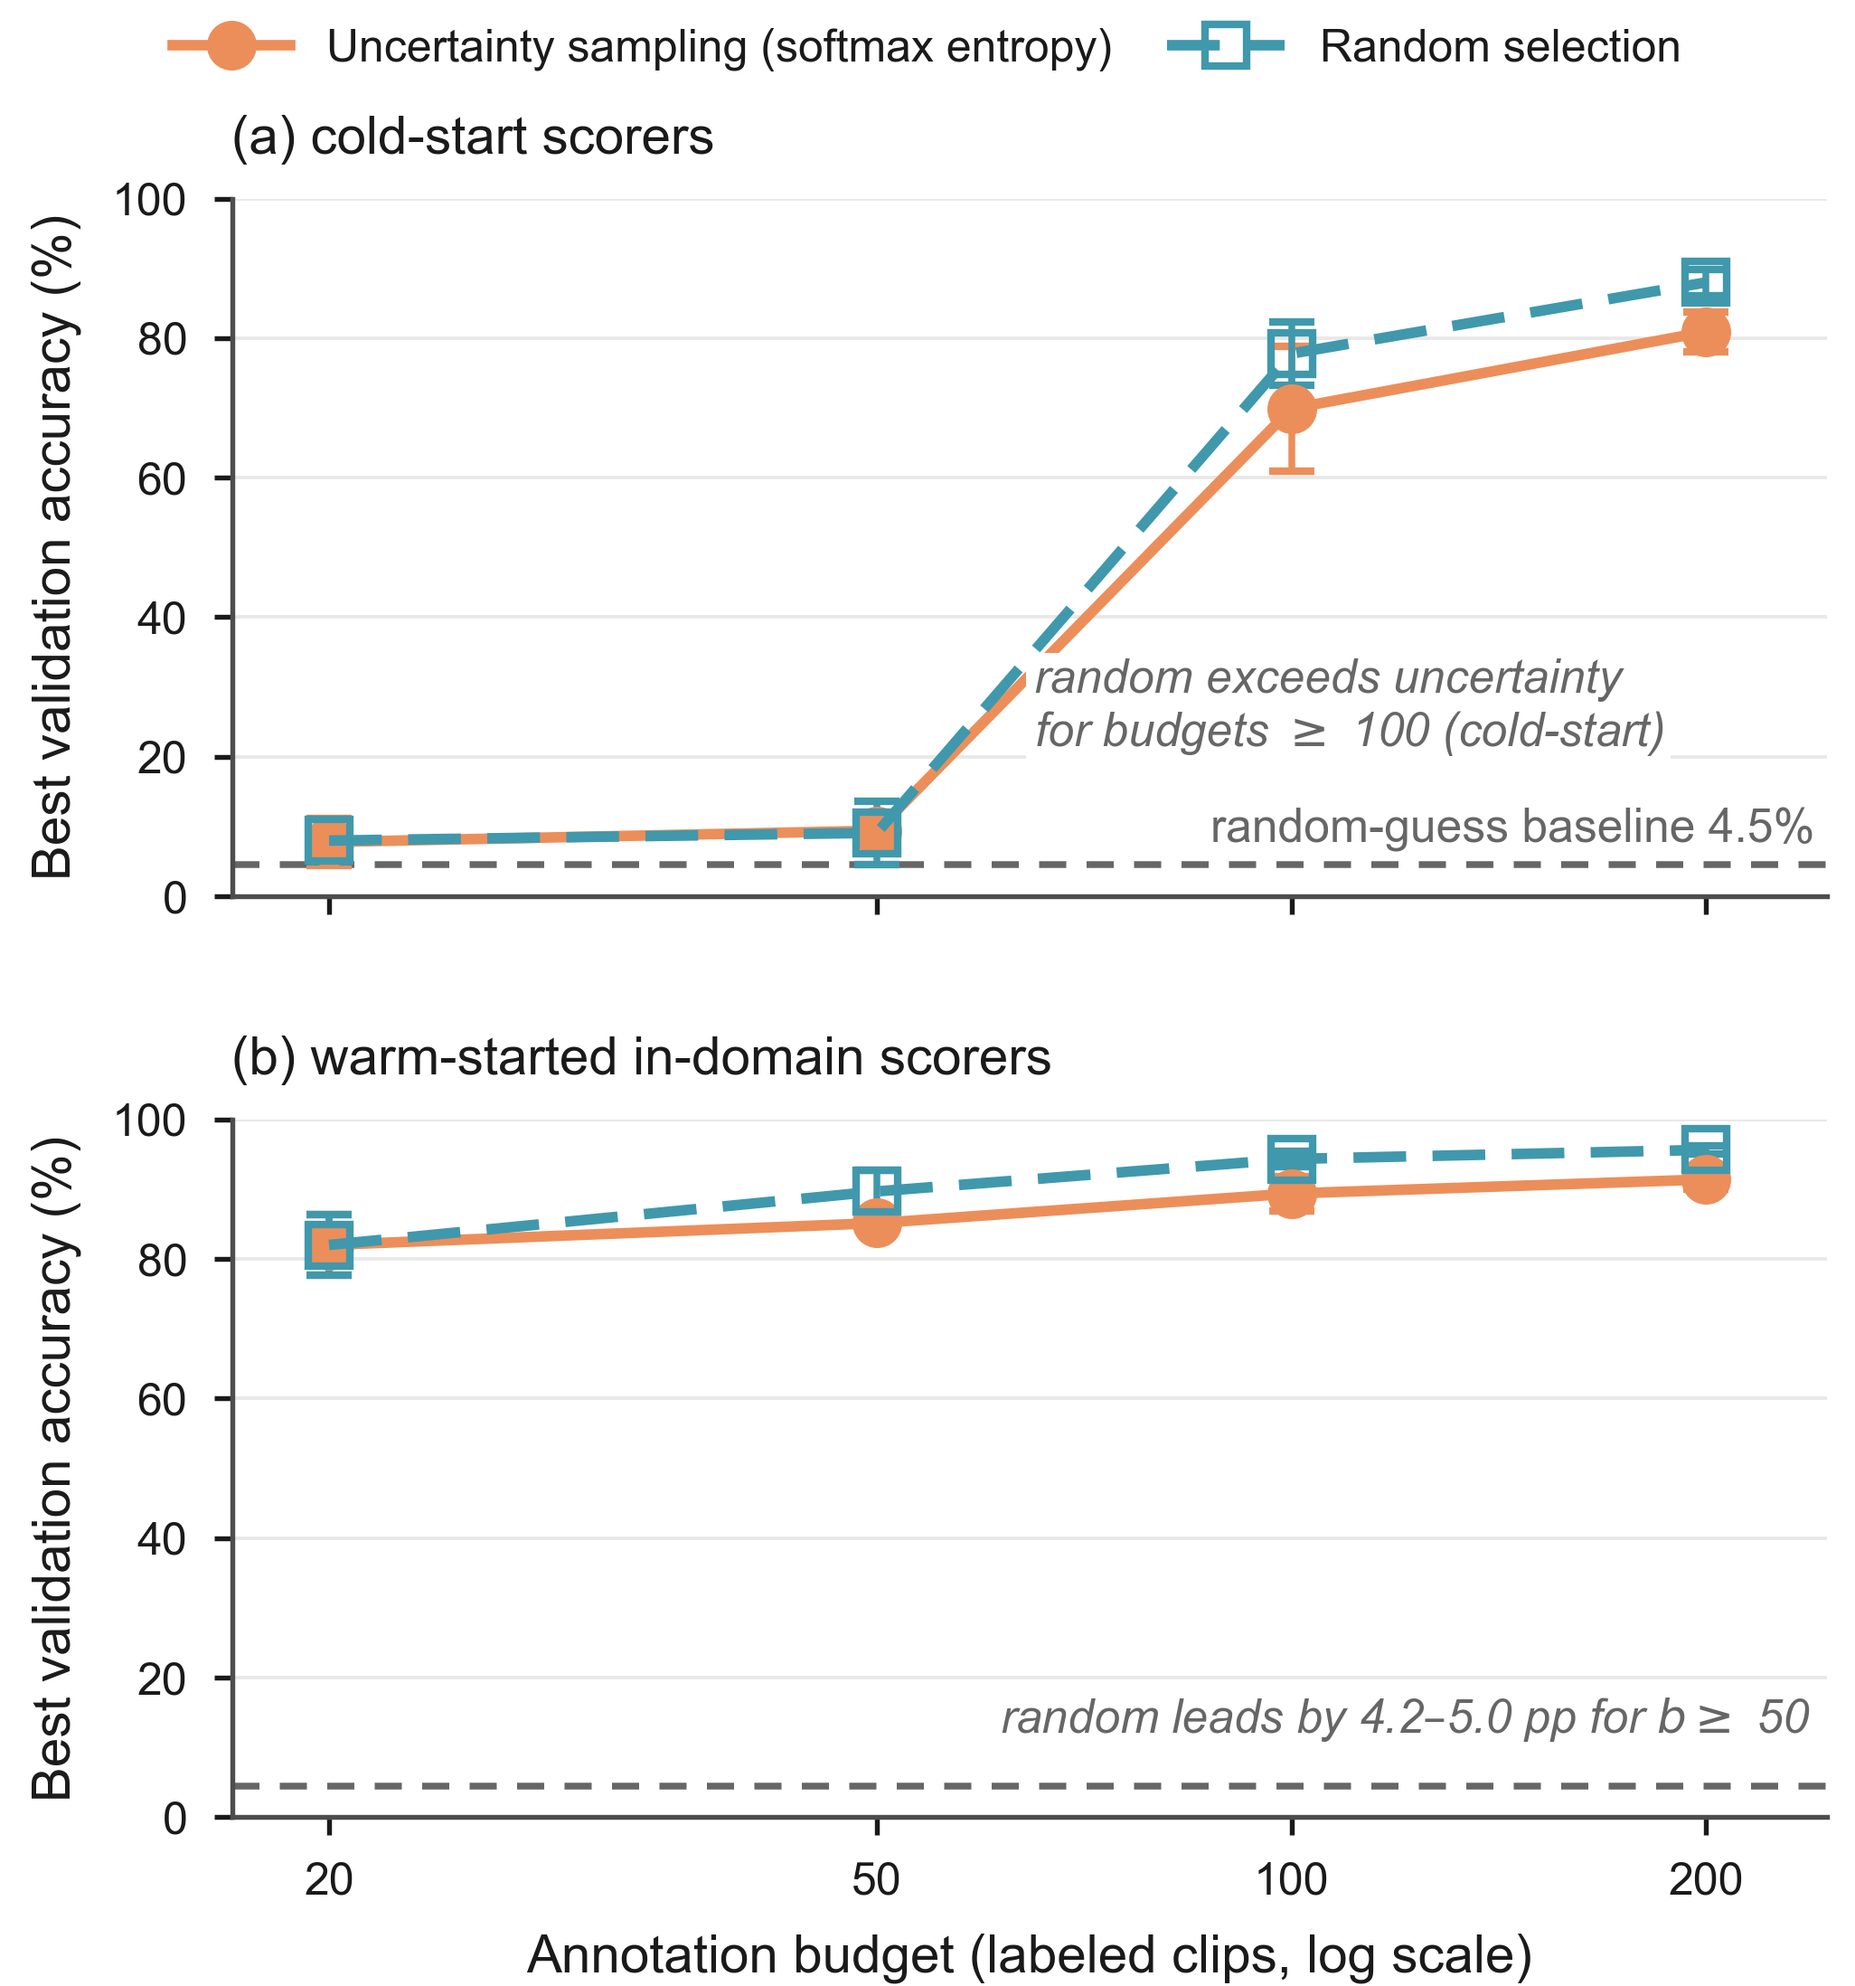
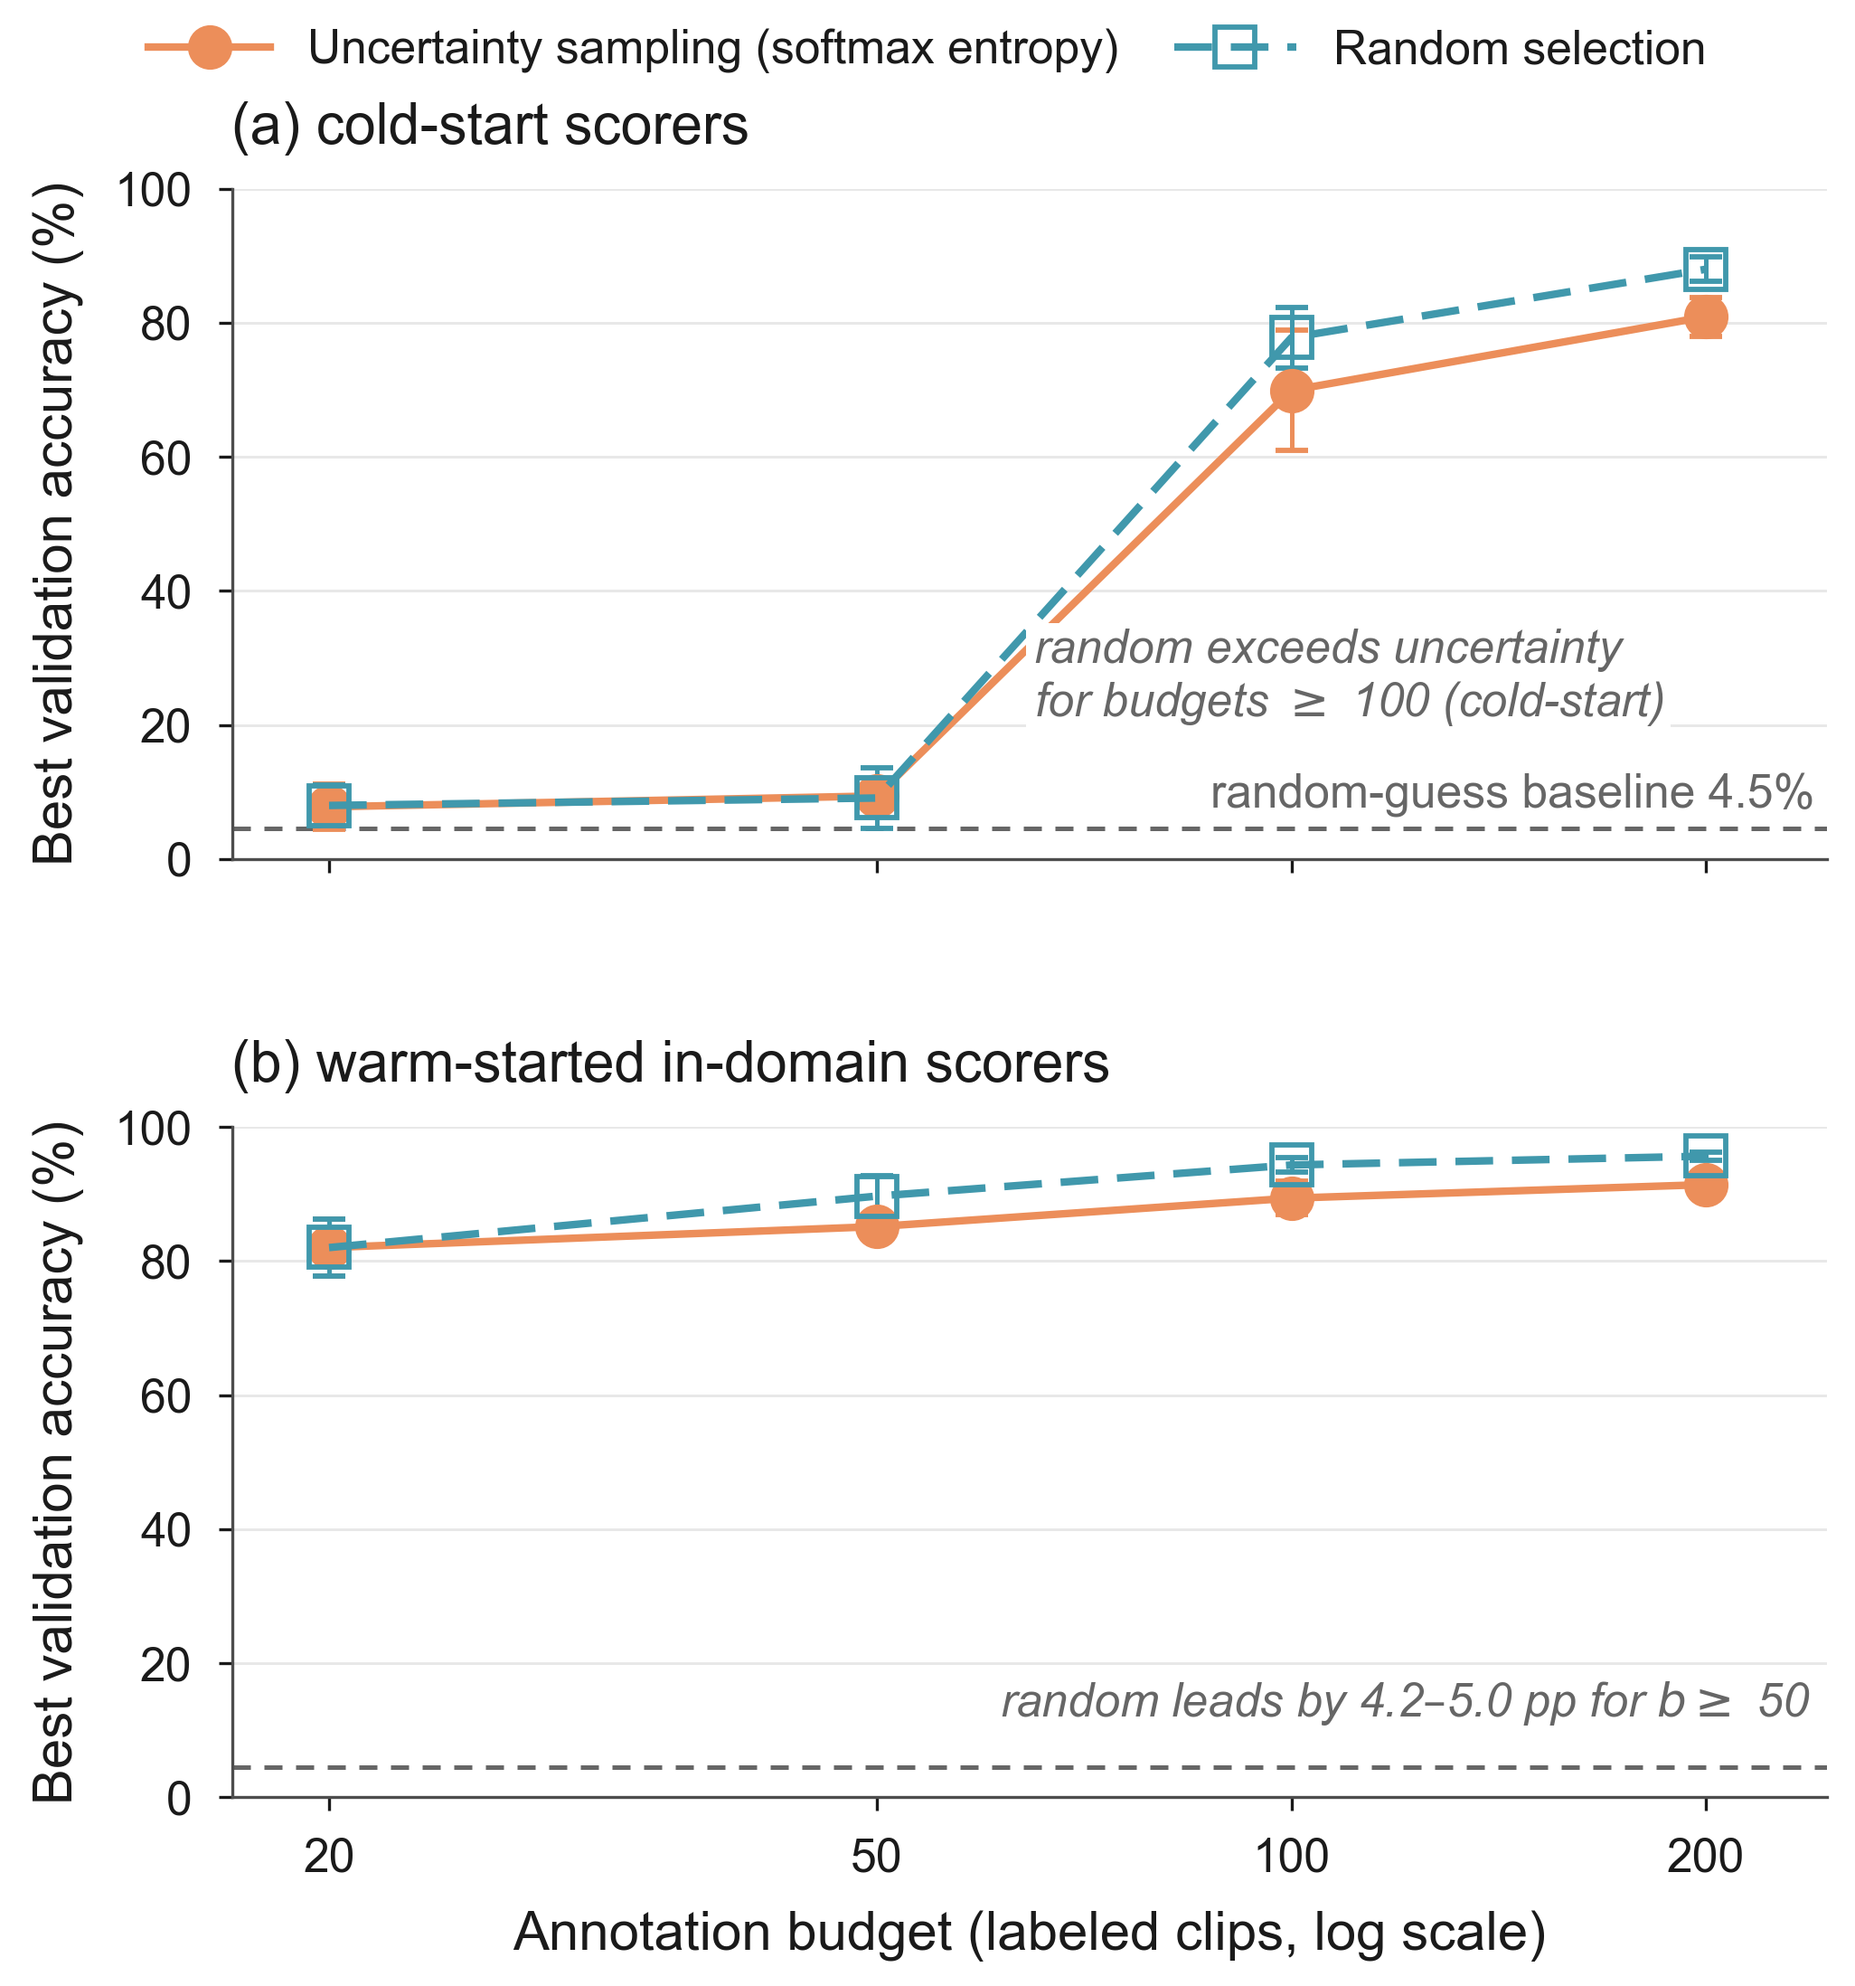
feat(fig4): v8 方向 C+ 强化重画——笔触细化 + 字号阶梯 + 面板间距（守 3.66in 上限）
C+ 相对 v7 的收紧项（本图高度受「fig4 高 <=3.66in 防浮动超页」硬上限约束，
不可加高，故留白增益改走"面板间距 + 内部净空"）：
- 笔触：spines 0.65->0.4、tick width 0.65->0.4、length 2.4->1.8、网格 0.45->0.35、
  曲线 1.4->1.0、marker 5.6->5.2 且 edge 1.0->0.7、误差棒 elinewidth 0.9->0.6 /
  capsize 3->2.2 / capthick 0.9->0.6、机会线 0.9->0.6。
- 字号：轴名 7->7.2、面板标题 7->7.5、刻度 6->6.2、图例 6.0->6.2；
  面板内注记保持 6.2（受 G3 误差棒净空约束）。下限 5.5pt。
- 留白：hspace 0.32->0.40、bottom 0.085->0.095、top 0.90->0.905。

数据零改动：数据源逐位承 v6/v7；点位核对一致（(a) entropy 69.9 vs random 77.8
@b=100、80.9 vs 88.0 @b=200）；**负结果事实断言通过**（cold-start random >=
entropy @ b>=100 原样诚实呈现，脚本内 assert 保留）。
caption 逐词保真：panel (a) cold-start / (b) warm-started 标题、两系列图例、
"random leads by 4.2-5.0 pp for b >= 50"、机会线注记 4.5%。
尺度修复保持：MediaBox 246.24x263.52pt = 3.66in 整 = 上限内。
门禁：G1 + G3(双面板) + G5 + G6 + G4(max_h 263.6) 全 PASS。

diff --git a/docs/paper/figures/scripts/make_fig4_al_efficiency_v8.py b/docs/paper/figures/scripts/make_fig4_al_efficiency_v8.py
@@ -1,0 +1,164 @@
+# -*- coding: utf-8 -*-
+"""fig4 v8 — 主动学习效率曲线（正典 · 风格方向 **C+ 强化版**）。
+
+承 v7 全部构图（双面板 sharex、图级单行共享图例、面板内负结果注记、
+机会线 4.5%、0-100 诚实轴、两系列 marker/线型冗余编码），**图内全部文字与
+数据口径逐字承 v6，零新增零删除零改写**；负结果事实（cold-start 下
+random ≥ entropy @ b=100/200）原样保留并打印断言。
+
+━━ 尺度修复 + 高度上限合规（wt/figB 诊断）━━
+v6 设计画布即 3.42x3.66in，但保存用 `bbox_inches="tight"` → MediaBox=墨迹框
+227.28x260.92pt，被 LaTeX 按 \\linewidth 装入时放大 246.24/227.28 = **1.083 倍**，
+实排高度 3.93in —— **顶破任务书「fig4 高 ≤3.66in 防浮动超页」上限 7.3%**，
+这是 tight 拉伸在本图造成的直接规格违规（D4 裁决项据此判为"构图职能内修复"）。
+本版固定画布 3.42x3.66in，MediaBox 严格 246.24x263.52pt=3.66in=版心宽，
+装入系数 1.000，实排高度精确 3.66in（= 设计高度，合规上限内）。
+显式版面边距替代 tight 兜底（bottom/top/left/right 全定量）。
+
+C+ 相对 v7 的收紧项（本图高度受「fig4 高 ≤3.66in 防浮动超页」硬上限约束，
+**不可加高**，故 C+ 的留白增益改走"面板间距 + 内部净空"而非画布尺寸）：
+1. **笔触更细**：spines 0.65 -> 0.4；tick width 0.65 -> 0.4、length 2.4 -> 1.8；
+   网格 0.45 -> 0.35；曲线 1.4 -> 1.0；marker 5.6 -> 5.2、edge 1.0 -> 0.7；
+   误差棒 elinewidth 0.9 -> 0.6、capsize 3 -> 2.2、capthick 0.9 -> 0.6；
+   机会线 0.9 -> 0.6。
+2. **字号阶梯更大**：轴名 7 -> 7.2；面板标题 7 -> 7.5；刻度 6 -> 6.2；
+   图例 6.0 -> 6.2；面板内注记 6.2（保持，受 G3 误差棒净空约束）。下限 5.5pt。
+3. **留白**：hspace 0.32 -> 0.40（两面板更分得开）、bottom 0.085 -> 0.095、
+   top 0.90 -> 0.905——在 3.66in 硬上限内做内部呼吸。
+4. 负结果事实与 caption 文字保持逐字不变（见文末断言）。
+
+数据：reports/p05-al-efficiency-{short-2026-08-24, warmstart-short-2026-08-25}.json（逐位承 v6/v7）。
+caption 约束逐词核对（05-ablation.tex \\label{fig:al-efficiency}）：
+panel (a) cold-start / panel (b) warm-started 标题、两系列图例、
+"random leads by 4.2--5.0 pp"、机会线注记——全部保持。
+"""
+from pathlib import Path
+import json
+import numpy as np
+import matplotlib
+matplotlib.use("Agg")
+import matplotlib.pyplot as plt
+
+ROOT = Path(__file__).resolve().parents[4]
+DATA = ROOT / "reports" / "p05-al-efficiency-short-2026-08-24.json"
+WDATA = ROOT / "reports" / "p05-al-efficiency-warmstart-short-2026-08-25.json"
+OUT_DIR = ROOT / "docs" / "paper" / "figures"
+PREVIEW = ROOT / "reports" / "figB-proposal"
+PREVIEW.mkdir(parents=True, exist_ok=True)
+
+import sys, os
+sys.path.insert(0, os.path.dirname(os.path.abspath(__file__)))
+import psd_style
+psd_style.apply_style()
+ENT_COLOR = psd_style.HERO     # uncertainty sampling = proposed arm（深橙=HERO 臂）
+RND_COLOR = psd_style.NS_BLUE  # random selection = 深青（冷青=random 臂）
+NOTE_GRAY = "#666666"
+GRID_GRAY = psd_style.GRID_GRAY
+
+
+payload = json.load(open(DATA, encoding="utf-8"))
+wpay = json.loads(WDATA.read_text(encoding="utf-8"))
+BUDGETS = [20, 50, 100, 200]
+SERIES = {
+    "entropy": dict(color=ENT_COLOR, marker="o", ls="solid",
+                    mfc=ENT_COLOR, label="Uncertainty sampling (softmax entropy)"),
+    "random": dict(color=RND_COLOR, marker="s", ls=(0, (5, 2.5)),
+                   mfc="none", label="Random selection"),
+}
+CHANCE_PCT = 4.5
+
+PANEL_ERRS = {"a": [], "b": []}   # (x, y_lo, y_hi, arm) 供 G3
+
+def panel(ax, curves, title, note, note_xy, tag):
+    xs = np.array([float(b) for b in BUDGETS])
+    for arm, style in SERIES.items():
+        means = [curves[arm][str(b)]["mean"] * 100.0 for b in BUDGETS]
+        stds = [curves[arm][str(b)]["std"] * 100.0 for b in BUDGETS]
+        ax.errorbar(xs, means, yerr=stds, color=style["color"],
+                    marker=style["marker"], markersize=5.2, markerfacecolor=style["mfc"],
+                    markeredgecolor=style["color"], markeredgewidth=0.7, linewidth=1.0,
+                    linestyle=style["ls"], elinewidth=0.6, capsize=2.2,
+                    capthick=0.6, zorder=3)
+        for b, m, s in zip(xs, means, stds):
+            PANEL_ERRS[tag].append((b, m - s, m + s, arm))
+    ax.axhline(CHANCE_PCT, color=NOTE_GRAY, linewidth=0.6, linestyle=(0, (4, 3)), zorder=2)
+    ax.set_xscale("log")
+    ax.set_xticks(BUDGETS)
+    ax.set_xticklabels([str(b) for b in BUDGETS])
+    ax.minorticks_off()
+    ax.set_xlim(17, 245)
+    ax.set_ylim(0, 100)
+    ax.set_ylabel("Best validation accuracy (%)", fontsize=7.2)
+    ax.set_title(title, loc="left", fontsize=7.5)
+    ax.grid(True, axis="y", color=GRID_GRAY, linewidth=0.35, zorder=0)
+    ax.set_axisbelow(True)
+    for side in ("top", "right"):
+        ax.spines[side].set_visible(False)
+    for side in ("left", "bottom"):
+        ax.spines[side].set_linewidth(0.4)
+    ax.tick_params(labelsize=6.2, width=0.4, length=1.8)
+    texts = []
+    if title.startswith("(a)"):
+        texts.append(ax.text(240, 9.5, "random-guess baseline 4.5%", ha="right", va="center",
+                             fontsize=6.2, color=NOTE_GRAY,
+                             bbox=dict(facecolor="white", edgecolor="none", pad=1.0)))
+    texts.append(ax.text(note_xy[0], note_xy[1], note, fontsize=6.2, color=NOTE_GRAY,
+                         style="italic", ha=note_xy[2], va="center", zorder=5,
+                         bbox=dict(facecolor="white", edgecolor="none", alpha=1.0, pad=1.0)))
+    return texts
+
+
+# ---- 固定画布：宽 3.42in == 版心 246.24pt；高 3.66in == 规格上限 ----
+FIG_W, FIG_H = 3.42, 3.66
+fig, axes = plt.subplots(2, 1, figsize=(FIG_W, FIG_H), sharex=True)
+fig.patch.set_facecolor("white")
+texts_a = panel(axes[0], payload["curves"], "(a) cold-start scorers",
+                "random exceeds uncertainty\nfor budgets $\\geq$ 100 (cold-start)",
+                (65, 27, "left"), "a")
+texts_b = panel(axes[1], wpay["curves"], "(b) warm-started in-domain scorers",
+                "random leads by 4.2\u20135.0 pp for $b \\geq$ 50",
+                (238, 14, "right"), "b")
+axes[1].set_xlabel("Annotation budget (labeled clips, log scale)", fontsize=7.2)
+
+# 图级单行共享图例（面板 (a) 上方图外）——承 v5/v6
+from matplotlib.lines import Line2D
+handles = [Line2D([0], [0], color=st["color"], marker=st["marker"], mfc=st["mfc"],
+                  mec=st["color"], markeredgewidth=0.7, markersize=5.2,
+                  linestyle=st["ls"], linewidth=1.0)
+           for st in SERIES.values()]
+labels = [st["label"] for st in SERIES.values()]
+fig.legend(handles, labels, loc="upper center", bbox_to_anchor=(0.5, 0.995),
+           ncol=2, frameon=False, fontsize=6.2, handlelength=2.6,
+           columnspacing=1.2, borderaxespad=0.0)
+# 去 tight 后的显式版面（legend 在上、xlabel 在下均留位）
+fig.subplots_adjust(left=0.125, right=0.985, top=0.905, bottom=0.095, hspace=0.40)
+
+# ---- 门禁（G1 + G3 双面板 + G5 + G6 + G4 高度上限） ----
+import make_common_gates as gates
+gates.gate_print_robustness(
+    "fig4-v8", {"uncertainty (proposed)": ENT_COLOR, "random": RND_COLOR},
+    redundancy="marker shape (o/s) + linestyle (solid/dashed) + legend")
+gates.gate_whisker_texts(fig, axes[0], texts_a, PANEL_ERRS["a"], name="fig4-v8-a")
+gates.gate_whisker_texts(fig, axes[1], texts_b, PANEL_ERRS["b"], name="fig4-v8-b")
+
+# ---- 出图（尺度修复：无 tight，MediaBox 严格等于画布） ----
+pdf_path = OUT_DIR / "fig4_al_efficiency.pdf"
+png_path = OUT_DIR / "fig4_al_efficiency.png"
+fig.savefig(pdf_path)
+fig.savefig(png_path, dpi=600)
+fig.savefig(PREVIEW / "preview_fig4.png", dpi=150)
+
+gates.gate_typography(fig, min_pt=5.5, name="fig4-v8")
+gates.gate_marks_in_axes(fig, name="fig4-v8")
+gates.gate_pdf(pdf_path, max_w_pt=246.3, max_h_pt=263.6)
+
+print("written:", pdf_path, "|", png_path)
+for arm in SERIES:
+    row = ", ".join(f"b={b}: {payload['curves'][arm][str(b)]['mean']*100:.1f}" for b in BUDGETS)
+    print(f"(a) {arm:>8}: {row}")
+    row = ", ".join(f"b={b}: {wpay['curves'][arm][str(b)]['mean']*100:.1f}" for b in BUDGETS)
+    print(f"(b) {arm:>8}: {row}")
+neg = all(payload["curves"]["random"][str(b)]["mean"] >= payload["curves"]["entropy"][str(b)]["mean"] for b in (100, 200))
+print(f"negative-result fact preserved: {neg}")
+assert neg, "负结果事实丢失：cold-start random >= entropy @ b>=100 不再成立"
+print("fig4 v8 (direction C+ intensified, height 3.66in compliant) saved")
